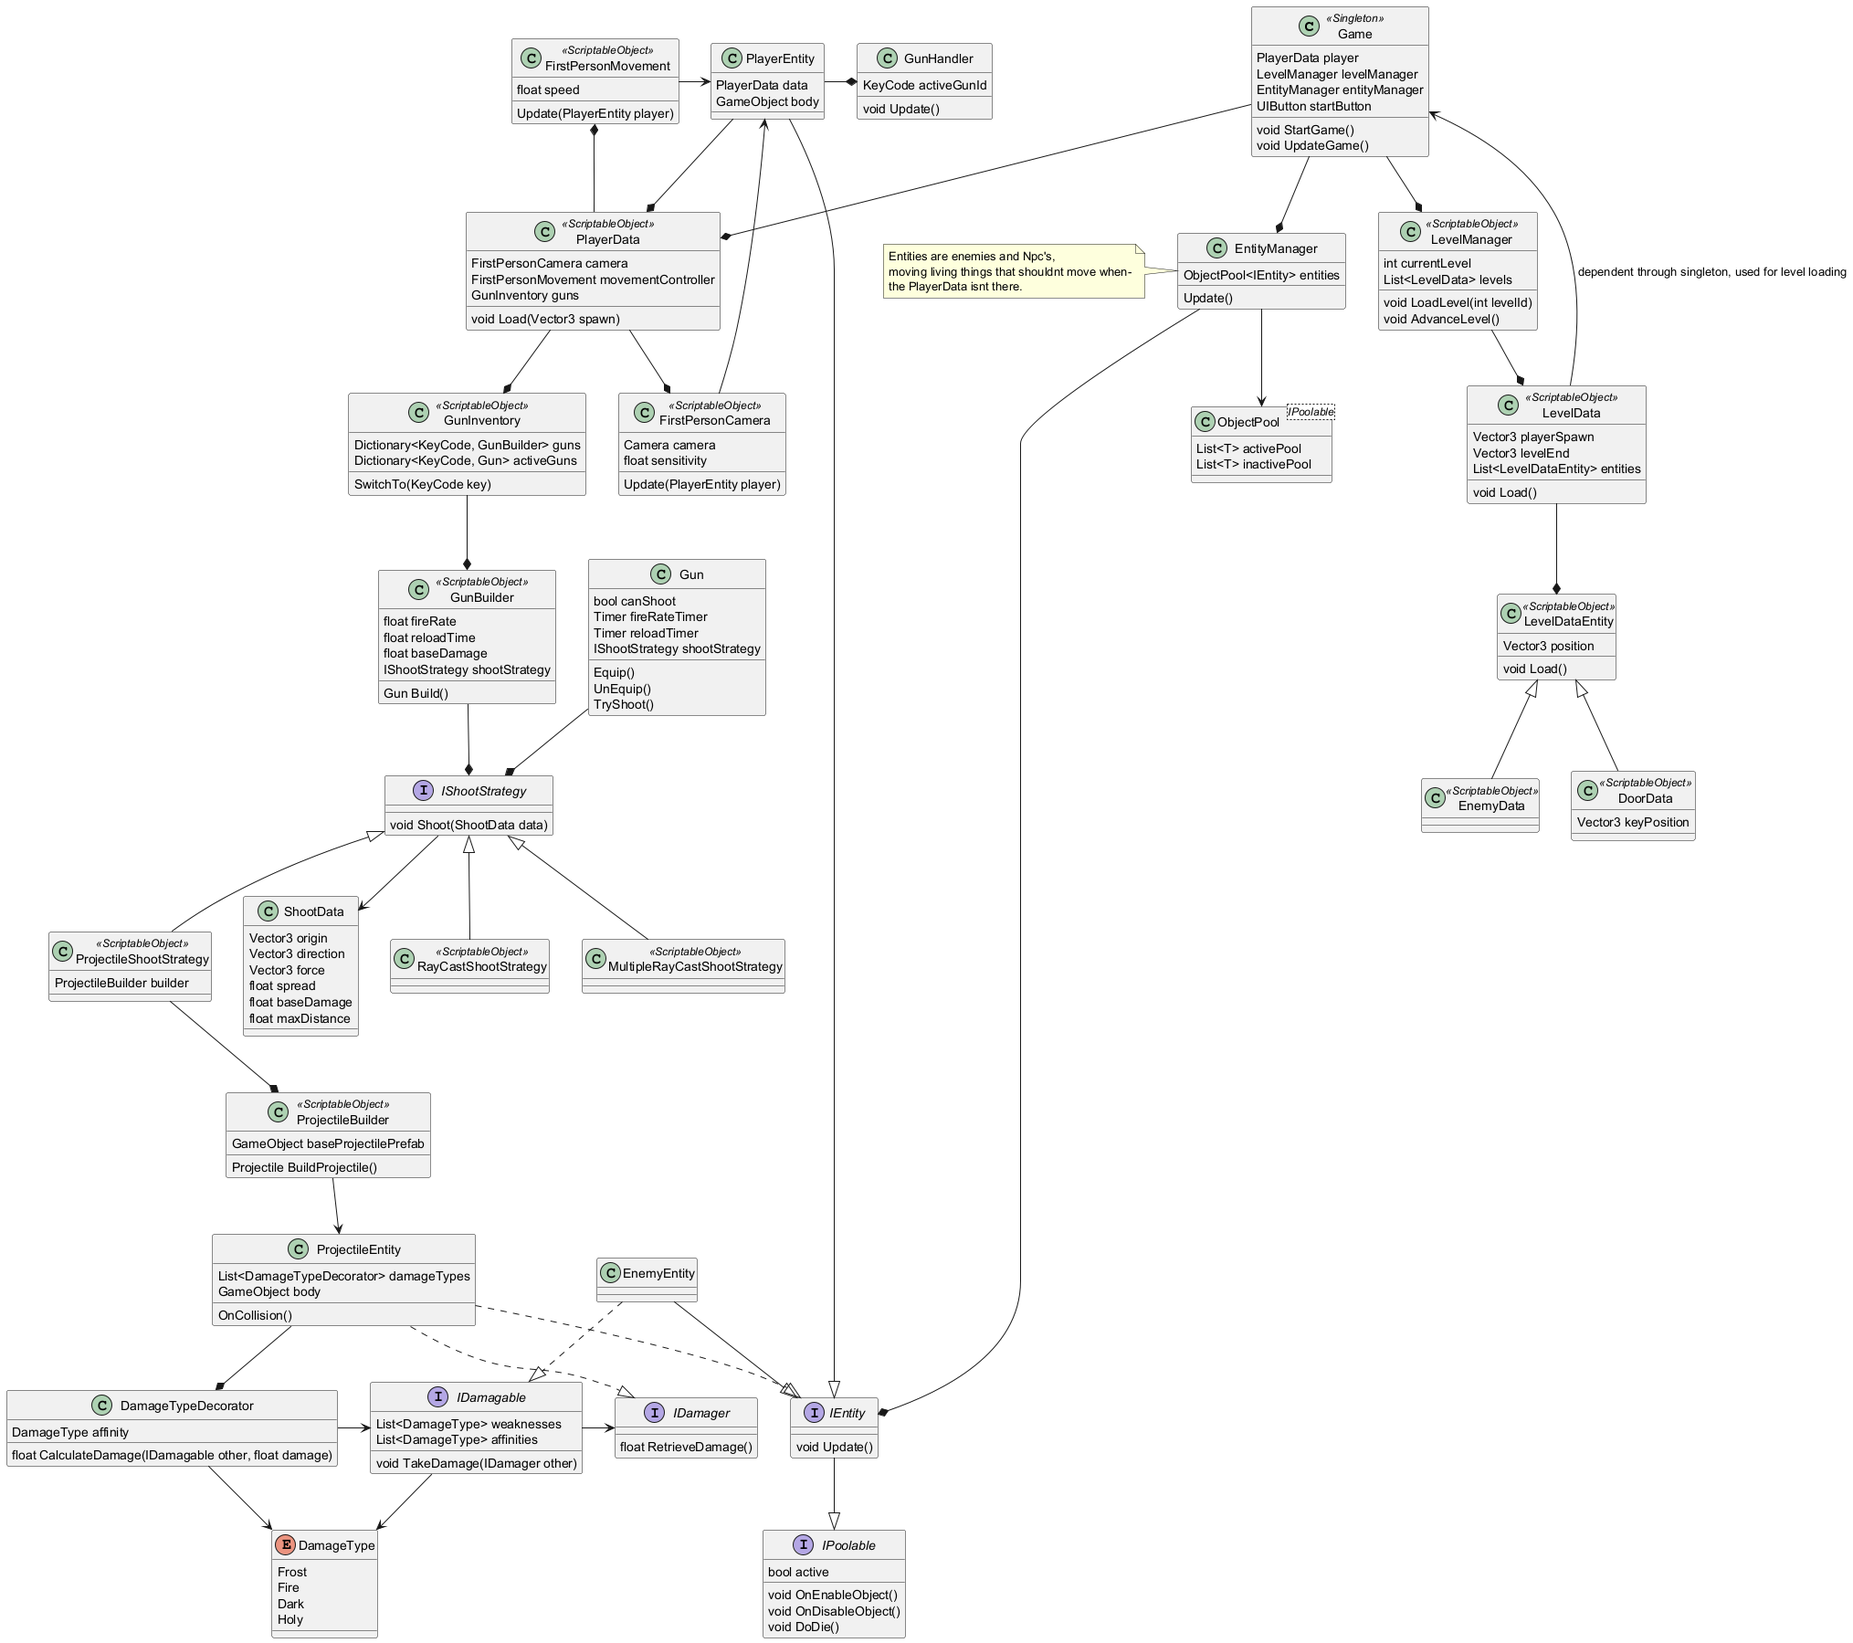
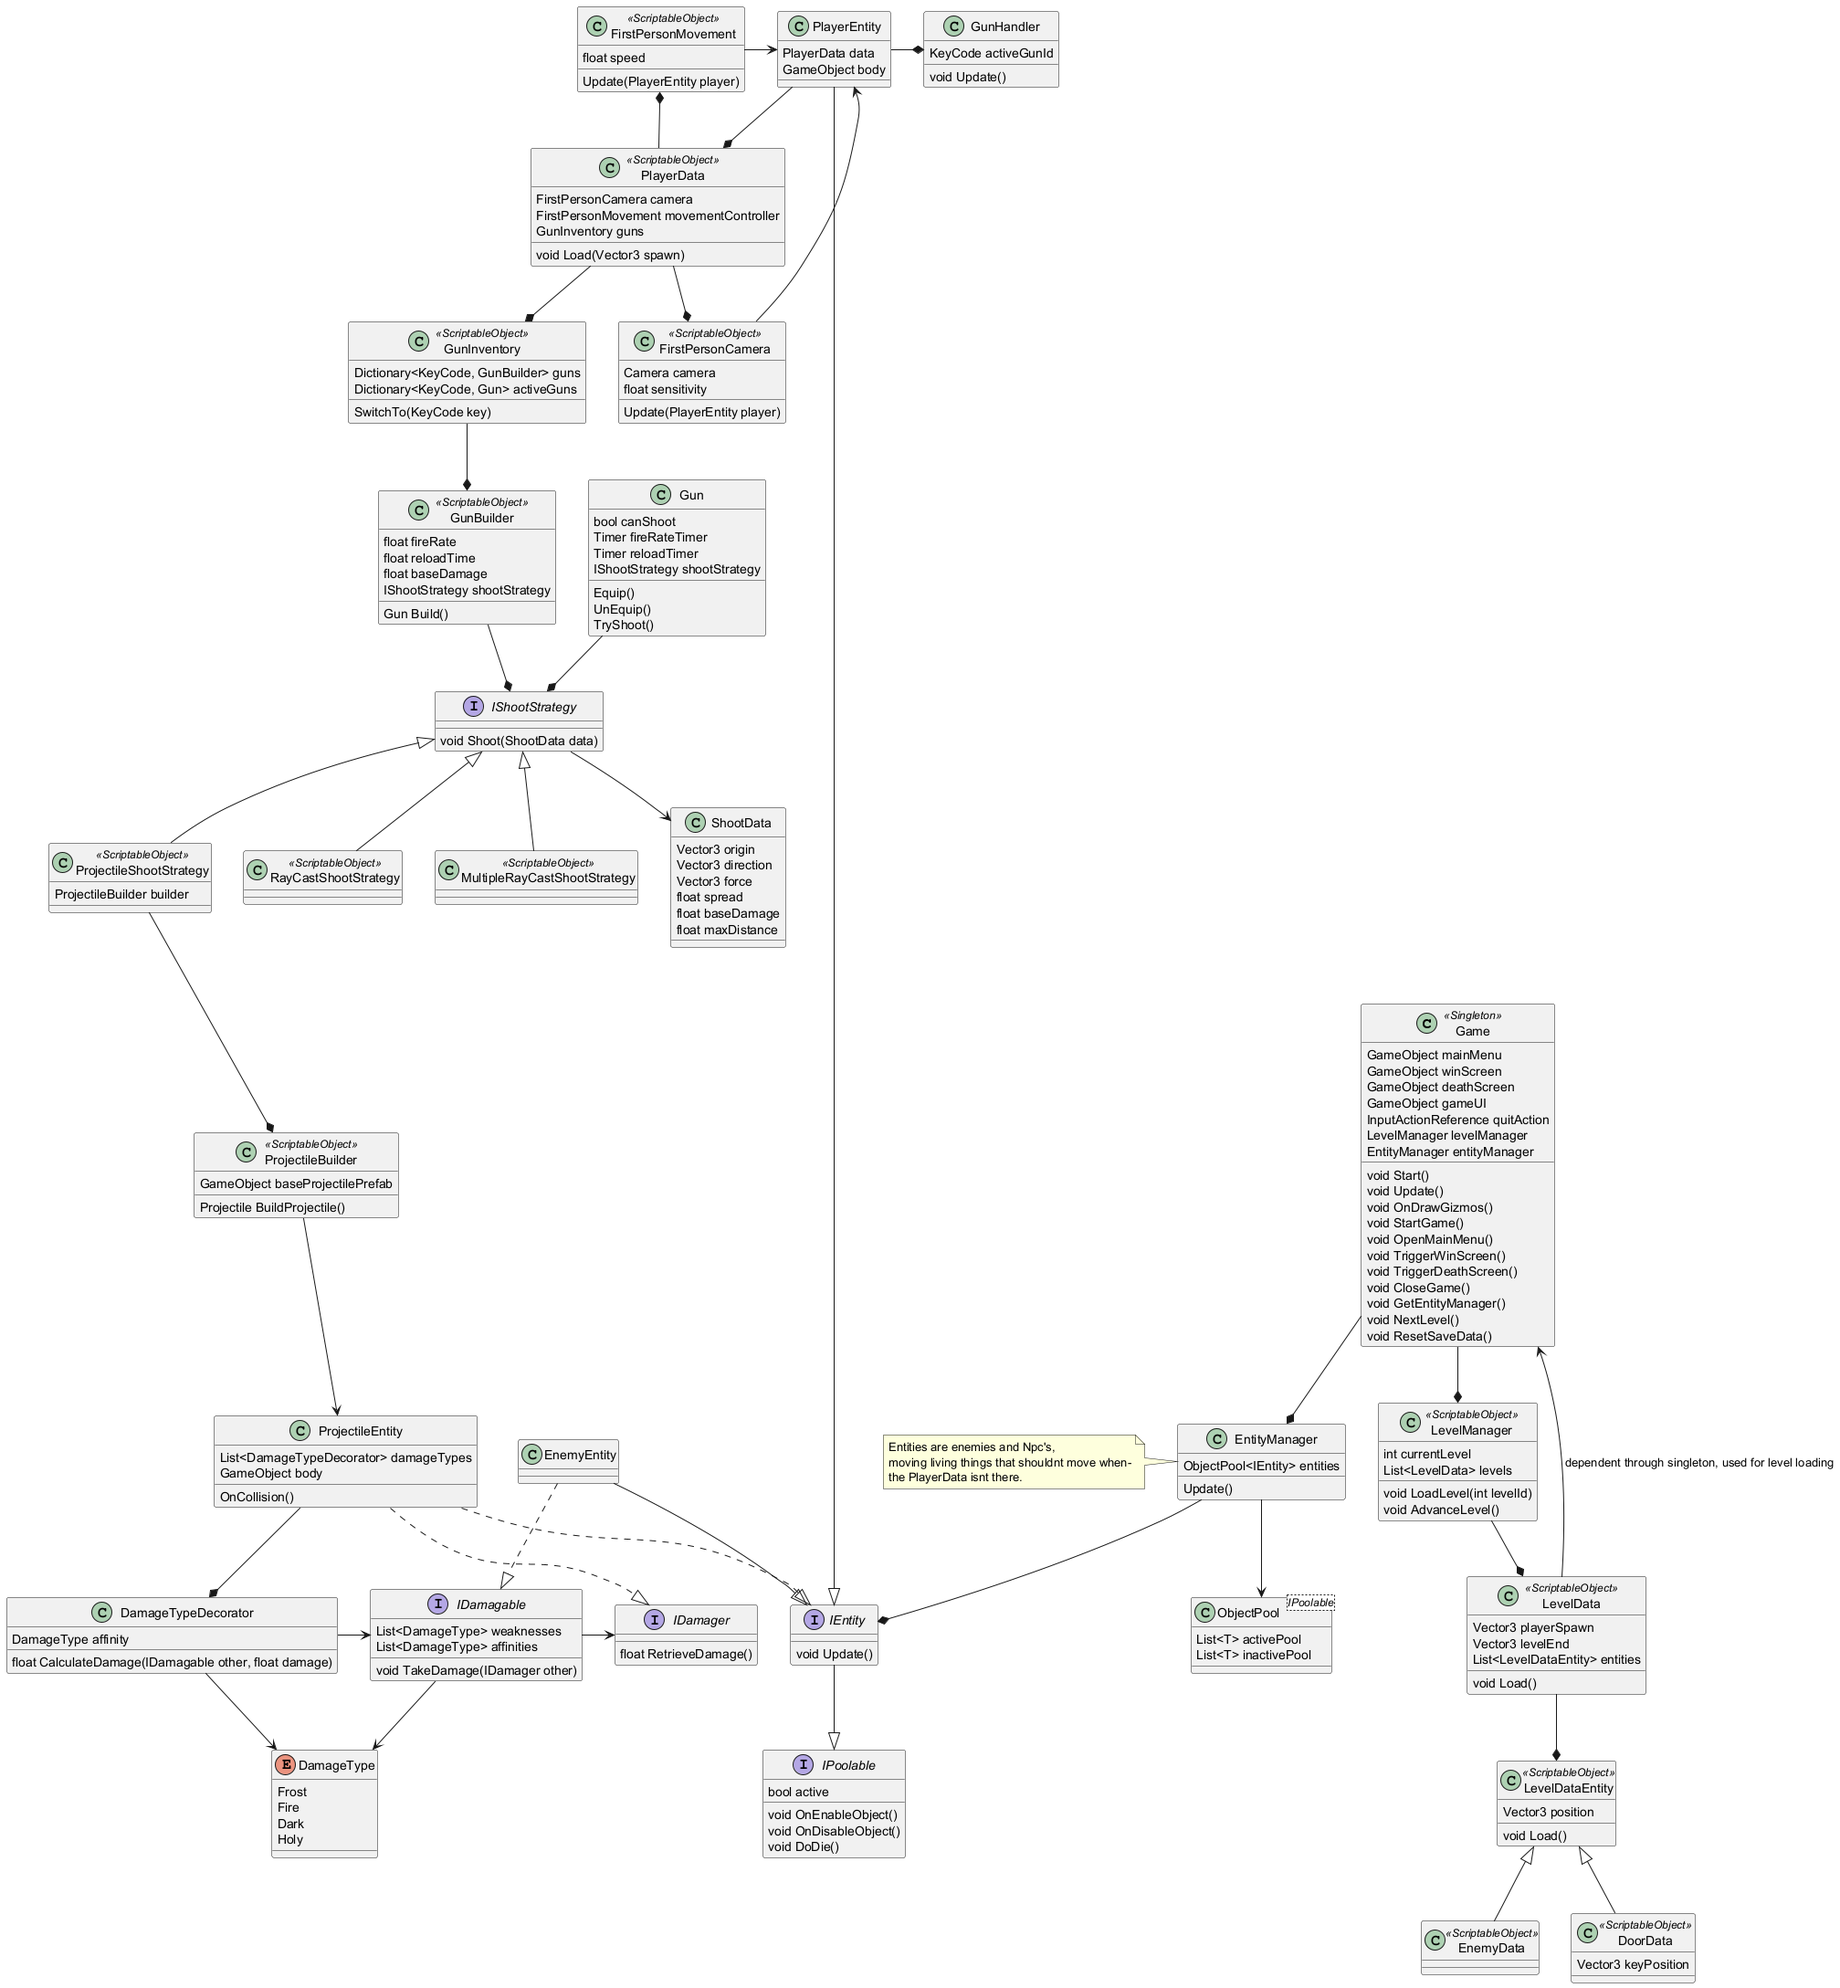
Bugfix: ScriptableObject Singletons, not always loadinf

diff --git a/IGS_Prototype/Assets/Scripts/Game.cs b/IGS_Prototype/Assets/Scripts/Game.cs
@@ -6,10 +6,10 @@ using UnityEngine.Serialization;
 public class Game : SingletonBehaviour<Game>
 {
     [Header("UI")]
-    [SerializeField] private GameObject menu;
-    [SerializeField] private GameObject endScreen;
+    [SerializeField] private GameObject mainMenu;
+    [SerializeField] private GameObject winScreen;
     [SerializeField] private GameObject deathScreen;
-    public GameObject gameInterface;
+    public GameObject gameUI;
     [Header("Input")]
     [SerializeField] private InputActionReference quitAction;
     [Header("Managers")]
@@ -19,14 +19,14 @@ public class Game : SingletonBehaviour<Game>
     private void Start()
     {
         entityManager = new EntityManager();
-        quitAction.action.performed += ctx => OpenMenu();
-        menu.SetActive(true);
+        quitAction.action.performed += ctx => OpenMainMenu();
+        mainMenu.SetActive(true);
     }
 
     private void Update()
     {
         entityManager.CustomUpdate();
-        if (gameInterface.activeInHierarchy)
+        if (gameUI.activeInHierarchy)
             LevelTimer.Instance.Update();
     }
 
@@ -42,32 +42,32 @@ public class Game : SingletonBehaviour<Game>
 
     public void StartGame()
     {
-        menu.SetActive(false);
-        gameInterface.SetActive(true);
+        mainMenu.SetActive(false);
+        gameUI.SetActive(true);
         levelManager.LoadLevel(levelManager.currentLevel);
         PlayerInterfaceConsole.Instance.Setup();
     }
 
-    public void OpenMenu()
+    public void OpenMainMenu()
     {
-        menu.SetActive(true);
-        gameInterface.SetActive(false);
-        endScreen.SetActive(false);
+        mainMenu.SetActive(true);
+        gameUI.SetActive(false);
+        winScreen.SetActive(false);
         deathScreen.SetActive(false);
         entityManager.DeactivateAllEntities();
     }
 
-    public void TriggerEndScreen()
+    public void TriggerWinScreen()
     {
         entityManager.DeactivateAllEntities();
-        gameInterface.SetActive(false);
-        endScreen.SetActive(true);
+        gameUI.SetActive(false);
+        winScreen.SetActive(true);
     }
     
     public void TriggerDeathScreen()
     {
         entityManager.DeactivateAllEntities();
-        gameInterface.SetActive(false);
+        gameUI.SetActive(false);
         deathScreen.SetActive(true);
     }
     

diff --git a/IGS_Prototype/Assets/Scripts/Singletons/ScriptableObjectSingleton.cs b/IGS_Prototype/Assets/Scripts/Singletons/ScriptableObjectSingleton.cs
@@ -11,11 +11,10 @@ public abstract class ScriptableObjectSingleton<T> : ScriptableObject where T : 
         {
             if (instance == null)
             {
-                T[] results = Resources.FindObjectsOfTypeAll<T>();
+                T[] results = Resources.LoadAll<T>("");
                 if (results.Length == 0)
                 {
                     #if UNITY_EDITOR
-                    // It has a tendency to throw this error every second or two, feel free to ignore... its unity being jank (in case instance is not missing)
                     if (Application.isPlaying)
                         Debug.LogError("ScriptableObjectSingleton: No objects found in Resources folder, scriptable object instance missing");
                     #endif
@@ -40,7 +39,6 @@ public abstract class ScriptableObjectSingleton<T> : ScriptableObject where T : 
                     
                     return null;
                 }
-
                 
                 instance = results[0];
                 instance.hideFlags = HideFlags.DontUnloadUnusedAsset;

diff --git a/IGS_Prototype/Assets/Scripts/Guns/UI/GunInventoryUI.cs b/IGS_Prototype/Assets/Scripts/Guns/UI/GunInventoryUI.cs
@@ -25,9 +25,9 @@ public class GunInventoryUI : ScriptableObjectSingleton<GunInventoryUI>
 
     private void Setup()
     {
-        inventoryInstance = Instantiate(inventoryPrefab, Game.instance.gameInterface.transform);
-        inventoryAmmoCounterPrefab.Instantiate(Game.instance.gameInterface.transform);
-        inventoryReloadingPrefab.Instantiate(Game.instance.gameInterface.transform);
+        inventoryInstance = Instantiate(inventoryPrefab, Game.instance.gameUI.transform);
+        inventoryAmmoCounterPrefab.Instantiate(Game.instance.gameUI.transform);
+        inventoryReloadingPrefab.Instantiate(Game.instance.gameUI.transform);
     }
     
     private bool IsIdValid(int id) => id >= 0 && id < inventoryItemInstance.Count;

diff --git a/IGS_Prototype/Assets/Scripts/GeneralUI/PlayerInterfaceConsole.cs b/IGS_Prototype/Assets/Scripts/GeneralUI/PlayerInterfaceConsole.cs
@@ -26,7 +26,7 @@ public class PlayerInterfaceConsole : ScriptableObjectSingleton<PlayerInterfaceC
     {
         if (textHolderPrefab.instance)
             return;
-        textHolderPrefab.Instantiate(Game.instance.gameInterface.transform);
+        textHolderPrefab.Instantiate(Game.instance.gameUI.transform);
     }
 
     private void CheckHistorySize()

diff --git a/IGS_Prototype/Assets/Scripts/GeneralUI/LevelTimer.cs b/IGS_Prototype/Assets/Scripts/GeneralUI/LevelTimer.cs
@@ -22,7 +22,7 @@ public class LevelTimer : ScriptableObjectSingleton<LevelTimer>
     {
         if (textHolderPrefab.instance)
             return;
-        textHolderPrefab.Instantiate(Game.instance.gameInterface.transform);
+        textHolderPrefab.Instantiate(Game.instance.gameUI.transform);
     }
 
     private void OnTimerFinished()

diff --git a/IGS_Prototype/Assets/Scripts/Level/LevelManager.cs b/IGS_Prototype/Assets/Scripts/Level/LevelManager.cs
@@ -24,6 +24,6 @@ public class LevelManager : ScriptableObject
         }
         
         currentLevel = 0;
-        Game.instance.TriggerEndScreen();
+        Game.instance.TriggerWinScreen();
     }
 }
